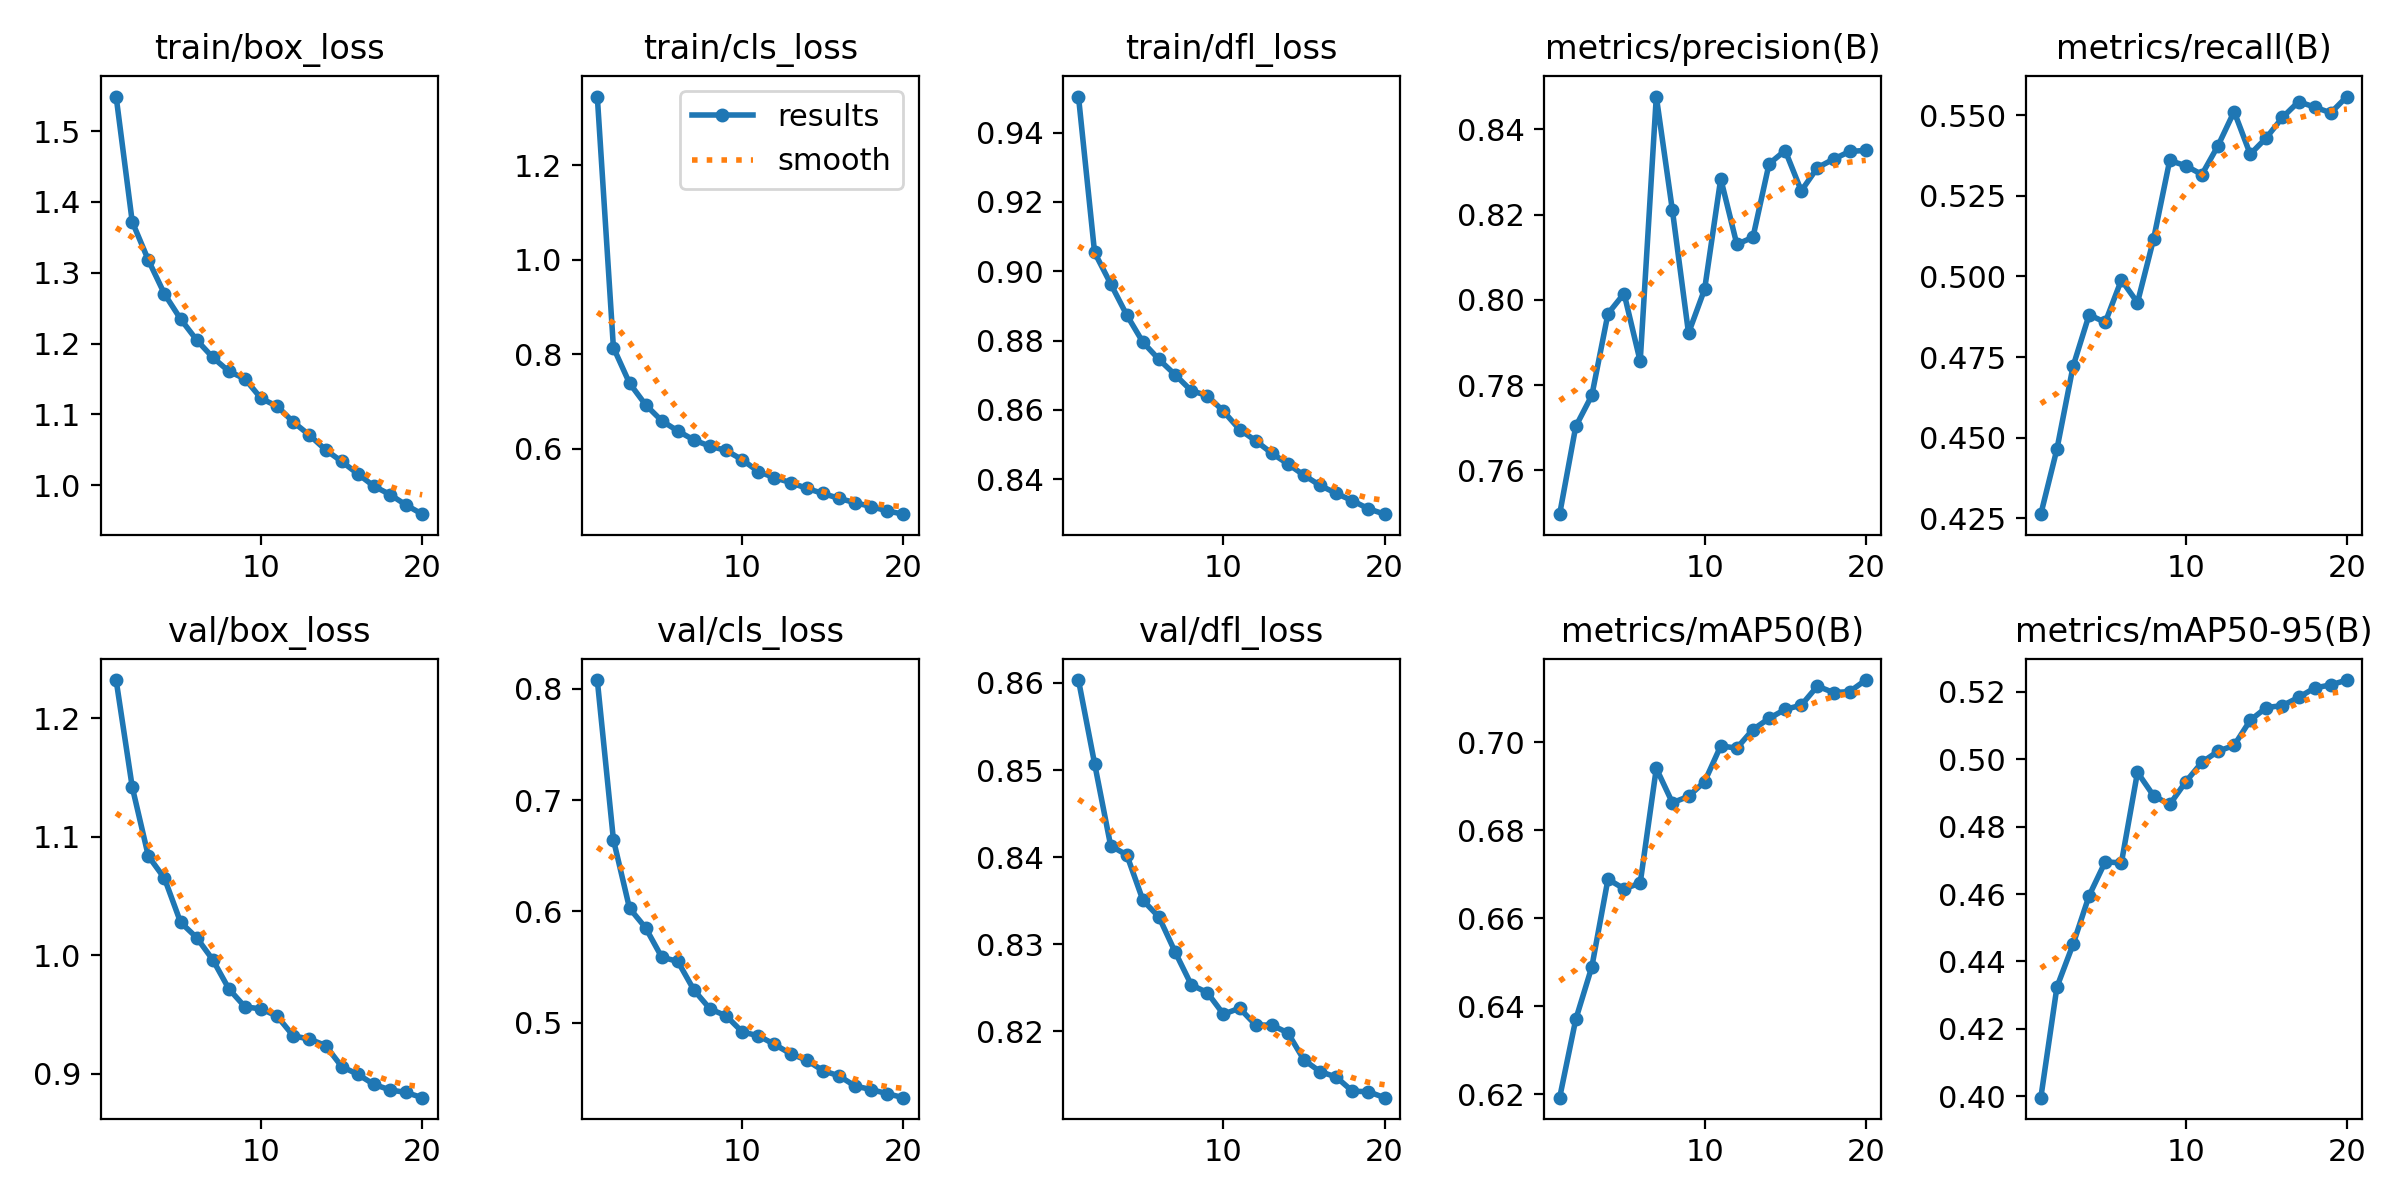
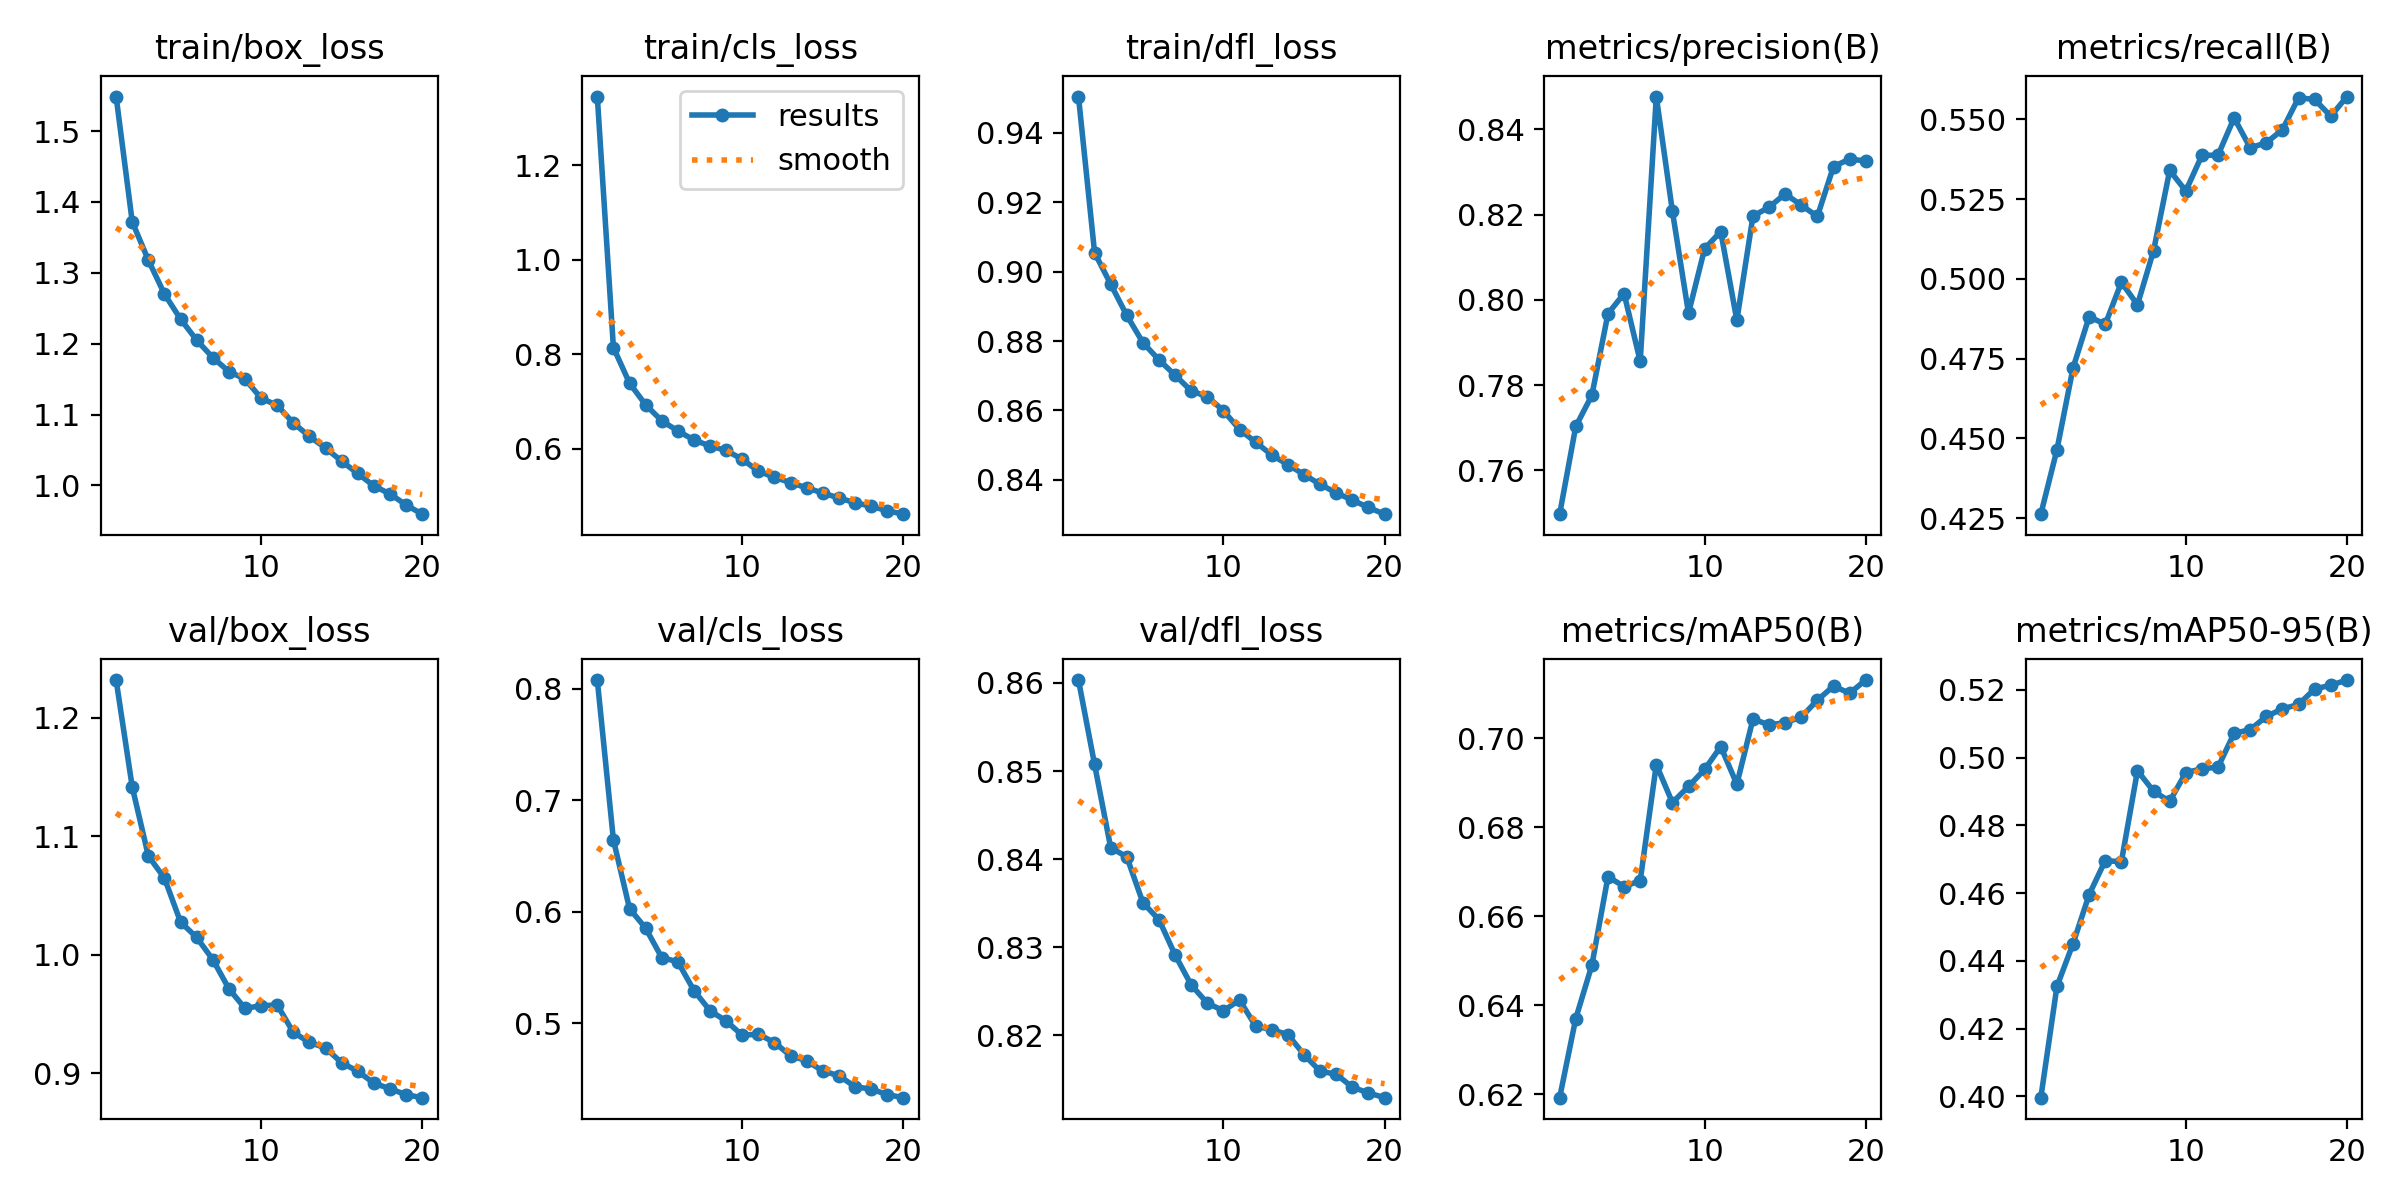
Added retrained model weights and updated training module

diff --git a/train.py b/train.py
@@ -2,6 +2,7 @@ from ultralytics import YOLO
 from roboflow import Roboflow
 import cv2
 import torch
+import time
 
 def get_dataset():
     # grab dataset from roboflow 
@@ -22,6 +23,7 @@ def train_data():
     device="cuda" if torch.cuda.is_available() else "cpu",
     max_det=100,
     conf=0.25,
+    save=True,
     verbose=True
     )
 
@@ -120,15 +122,13 @@ def video_test_sped_up():
     # Speed factor (higher = faster video)
     speed_factor = 3
 
-    frame_width = 640
-    frame_height = 640
-
     fourcc = cv2.VideoWriter_fourcc(*'avc1')  # Best for MOV output
     output_path = "output_video.mov"  # Save as MOV
     out = cv2.VideoWriter(output_path, fourcc, fps, (frame_width, frame_height))
 
     frame_count = 0
     saved_frame_count = 0
+    start = time.perf_counter()
 
     while cap.isOpened():
         ret, frame = cap.read()
@@ -153,16 +153,19 @@ def video_test_sped_up():
 
         frame_count += 1
 
+    end = time.perf_counter()
+    elapsed = end - start
     cap.release()
     out.release()
     cv2.destroyAllWindows()
 
     print(f"Processed {frame_count} frames, Saved {saved_frame_count} frames (Speed factor: {speed_factor})")
     print(f"Output video saved as {output_path}")
+    print(f"Average runtime per frame: {(elapsed * (10**3))/frame_count:.1f} ms")
 
 
 if __name__ == "__main__":
     # get_dataset()
-    # train_data()
-    convert_onnx()
+    train_data()
+    # convert_onnx()
     # video_test_sped_up()
